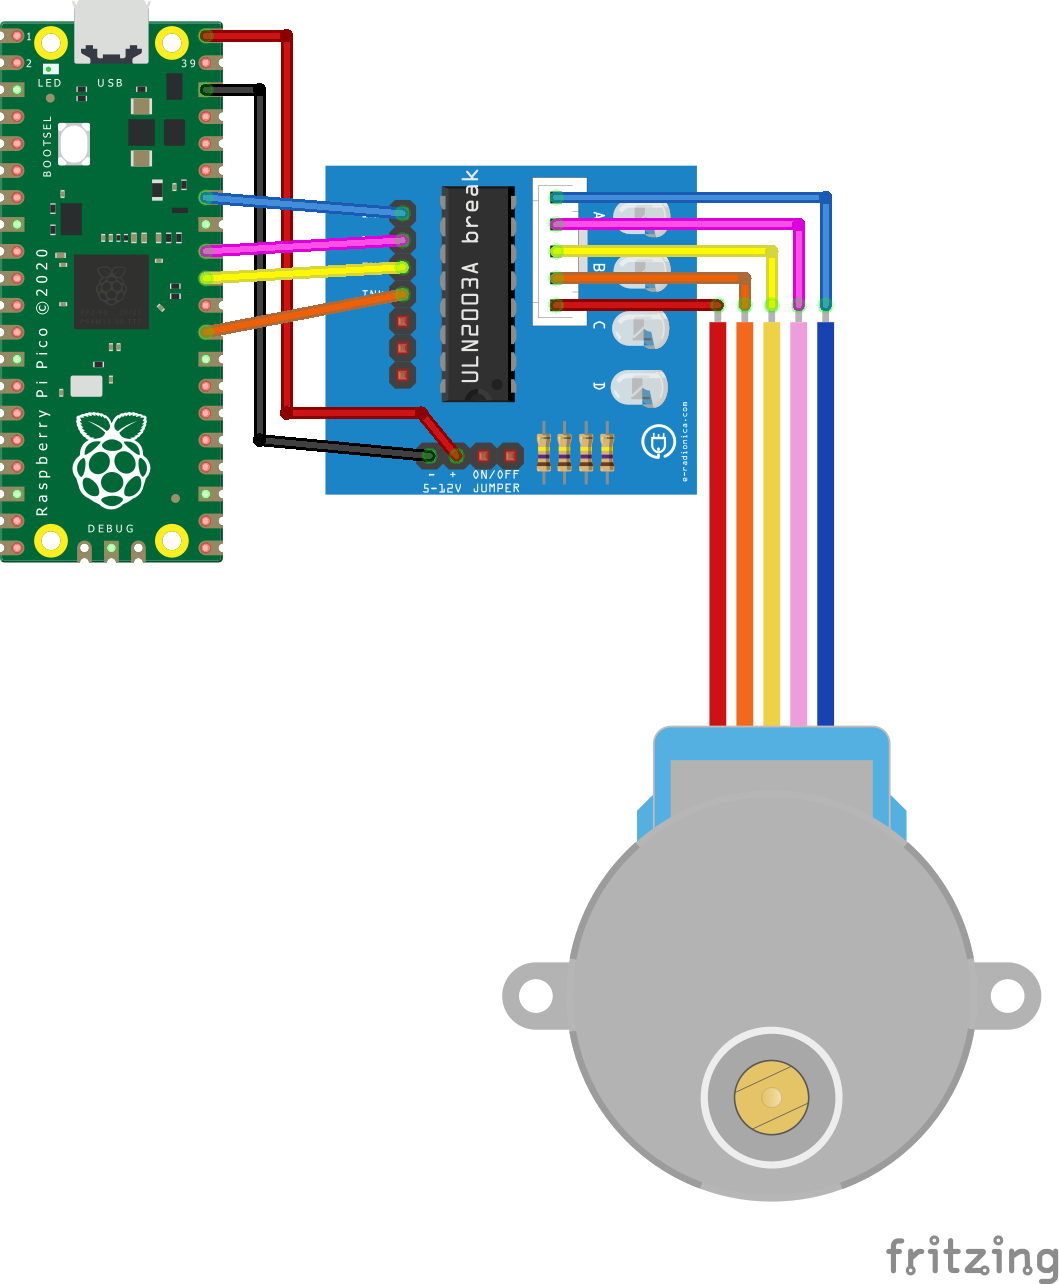
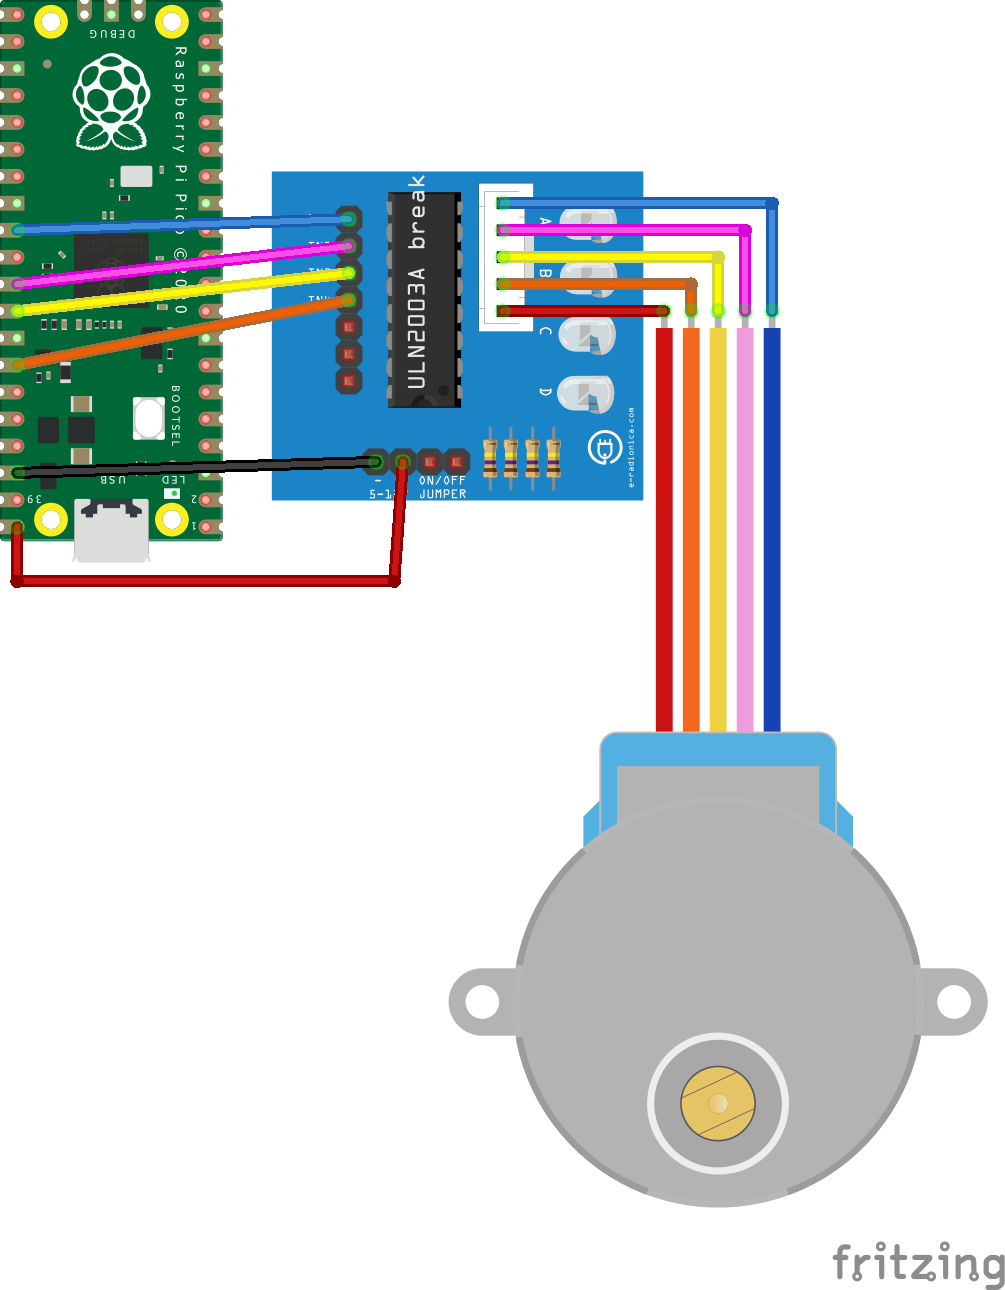
More pico updates
Docs and code for wiring updates.  Better docs on why a pico and what it does.

diff --git a/src/microPython/main.py b/src/microPython/main.py
@@ -46,8 +46,6 @@ def diff_ms(now, then):
     return time.ticks_diff(now, then) / 1000.0
 
 def usleep(us,accuracy=0.99):
-    global output
-    
     start = time.ticks_us()
     diff = 0
     now = start
@@ -132,7 +130,7 @@ def calibrate_delay(expected_duration_ms,step_delay_ms,step_count,start_tick,end
 
     return calibrated_delay_ms
 
-def forward(step_delay_ms,start_tick):
+def forward(calibration_target,step_delay_ms,start_tick):
     global step
 
     # the value we get for step delay is our ideal / target value
@@ -175,6 +173,11 @@ def forward(step_delay_ms,start_tick):
             calibration_step = step % SequenceCount
             calibration_start_tick = now_tick
 
+            # turn off Pico LED once we're within calibration target
+            calibration_p=abs(1.0 - (step_delay_ms / calibrated_delay_ms))
+            if calibration_p < calibration_target:
+                pin_led.off()
+
             step_delay_ms = calibrated_delay_ms
             if debug:
                 # useful overall stats for verifying calibration is doing what it should: keep the TOTAL drift (delta) down.
@@ -202,12 +205,13 @@ def forward(step_delay_ms,start_tick):
 
 if __name__ == '__main__':
     # TODO load the initial step delay from configuration
+    calibration_target=0.001
     step_delay_ms=4.633737
     start_tick=tick()
     try:
         # fire up power and pico's LED (just so we know it should be doing something)
         startup()
-        forward(step_delay_ms,start_tick)
+        forward(calibration_target,step_delay_ms,start_tick)
     except KeyboardInterrupt:
         pass
     finally:

diff --git a/docs/software.md b/docs/software.md
@@ -1,4 +1,4 @@
-# Code
+# Hardware & Software
 
 I staretd out developing this for a Raspberry Pi 4b.  The code is still there (see [stepper.py](../src/python/stepper.py)) but I have moved on to the Raspberry Pi Pico which is a little different.  This document assumes:
 
@@ -6,33 +6,6 @@ I staretd out developing this for a Raspberry Pi 4b.  The code is still there (s
 - You are wiring it the same way documented here
 - You can change the code if you use another device or wire it differently
 
-# Raspberry Pi Pico
-
-- File: [main.py](../src/microPython/main.py)
-- Config: [stepper.yaml](../src/microPython/stepper.yaml)
-
-The code doesn't hard wire pins but you do have to configure it.  See the [Calibration](#calibration) section on why you don't need to tune the stepper delay.
-
-So just plug in your configuration in [stepper.yaml](../src/microPython/stepper.yaml) and ship the [microPython](../src/microPython/) directory to your Raspberry Pi Pico.
-
-How?  I will leave that to you but provide the tools I used.  I decided to go the VSCode route which is GREAT!  I have one IDE to manage the code, run it remotely on the Pico, and finally to upload it to the Pico.  The sites I found helpful:
-
-- [Raspberry Pi Pico: Getting Started](https://www.raspberrypi.org/documentation/pico/getting-started/)
-- [How To Solder Pins to Your Raspberry Pi Pico](https://www.tomshardware.com/how-to/solder-pins-raspberry-pi-pico)
-- [Developing for the Raspberry Pi Pico in VS Code — Getting Started](https://medium.com/all-geek-to-me/developing-for-the-raspberry-pi-pico-in-vs-code-getting-started-6dbb3da5ba97)
-- [MicroPython libraries](https://docs.micropython.org/en/latest/library/index.html)
-
-Once you get everything uploaded to the Pico it pretty much instantly starts when plugged into USB power.  The Raspberry Pi 4b I used originally took a while.  And it's cheaper, smaller, and MUCH cooler when running.
-
-## Wiring
-
-I chose this layout before physically using it.  It works but there is wire crossover which irks me.  The pinout is available on  [Raspberry Pi Pico: Getting Started](https://www.raspberrypi.org/documentation/pico/getting-started/):
-
-![Raspberry Pi Pico Pinout](https://www.raspberrypi.org/documentation/pico/getting-started/static/15243f1ffd3b8ee646a1708bf4c0e866/Pico-R3-Pinout.svg)
-
-And the layout I have gone with is:
-
-![Raspberry Pi Pico Wiring](../images/wiring-piPico.png)
 
 ## Calibration
 
@@ -41,6 +14,12 @@ You do not have to do calibartion!  This is done automatically.  This section ju
 This script is simple but not trivial.. it does a dynamic calibration of the delay between steps.  It measure actual time vs expected time and adjusts the delay between steps.  It's done the whole time the program runs.  The key is to do a pretty short sampling.  If you do a long sample it ends up oscillating, swingging wider over time from ideal.  The new step delay is also adjusted to be only 50% of the difference between what would have been ideal and what is currently set.  This simply means a slower change in the delay, again to tamp down on ocillations.  The way it is setup right now works very well to dial in to a reasonable margin of error and keep it there.
 
 Note the error is higher on startup because it is based on the ideal data sheet numbers.  In my testing, _within 10 seconds_ the error rate stars hovering around `0.01%` with a few bips higher but overall very good.
+
+## Pico LED
+
+The Pico on-board LED will be on until calibration of step delay reaches the calibration target.  This way you know you're good to start with pictures.  Also, the LED lets you know it actually is on, in case the drive controller is misbehaving or wires have come loose.
+
+Calibration target will eventually be configuration driven.  Right now it is 0.1%.
 
 ## Custom Sleep
 

diff --git a/docs/hardware.md b/docs/hardware.md
@@ -1,0 +1,42 @@
+# Hardware
+I staretd out developing this for a Raspberry Pi 4b.  Since I have to the Raspberry Pi Pico for a couple of reasons:
+
+* it's cheaper
+* it's easier to smaller
+* it starts almost instantly
+* it doesn't get as hot
+
+You can still find the older Raspberry Pi 4b [wiring](../imsages/../images/wiring-4b.png) and [software](../src/python/stepper.py), but it is not going to be kept up to date.  At some point I'll likely drop them since the MicroPython code is different enough.
+
+## Raspberry Pi Pico
+
+- File: [main.py](../src/microPython/main.py)
+- Config: [stepper.yaml](../src/microPython/stepper.yaml)
+
+The code doesn't hard wire pins but you do have to configure it.  See the [Calibration](#calibration) section on why you don't need to tune the stepper delay.
+
+So just plug in your configuration in [stepper.yaml](../src/microPython/stepper.yaml) and ship the [microPython](../src/microPython/) directory to your Raspberry Pi Pico.
+
+How?  I will leave that to you but provide the tools I used.  I decided to go the VSCode route which is GREAT!  I have one IDE to manage the code, run it remotely on the Pico, and finally to upload it to the Pico.  The sites I found helpful:
+
+- [Raspberry Pi Pico: Getting Started](https://www.raspberrypi.org/documentation/pico/getting-started/)
+- [How To Solder Pins to Your Raspberry Pi Pico](https://www.tomshardware.com/how-to/solder-pins-raspberry-pi-pico)
+- [Developing for the Raspberry Pi Pico in VS Code — Getting Started](https://medium.com/all-geek-to-me/developing-for-the-raspberry-pi-pico-in-vs-code-getting-started-6dbb3da5ba97)
+- [MicroPython libraries](https://docs.micropython.org/en/latest/library/index.html)
+
+Once you get everything uploaded to the Pico it pretty much instantly starts when plugged into USB power.  The Raspberry Pi 4b I used originally took a while.  And it's cheaper, smaller, and MUCH cooler when running.
+
+## Wiring
+
+Pinout picked to minimize wire crossings.  It will change if I start adding some buttons.  Also I used [F-wire-blank.stl](../src/stl/F-wire-blank.stl) to make some blanks for pins not used so I could glue the wires together.  It was super annoying getting to a site to shoot and having to re-wire things!  Thankfully having this repo with pictures made it trivial, but still didn't like it.
+
+The pinout is available on  [Raspberry Pi Pico: Getting Started](https://www.raspberrypi.org/documentation/pico/getting-started/):
+
+![Raspberry Pi Pico Pinout](https://www.raspberrypi.org/documentation/pico/getting-started/static/15243f1ffd3b8ee646a1708bf4c0e866/Pico-R3-Pinout.svg)
+
+And the layout I have gone with is:
+
+![Raspberry Pi Pico Wiring](../images/wiring-piPico.png)
+
+---
+Back to the [Index](00-index.md)!

diff --git a/docs/00-index.md b/docs/00-index.md
@@ -4,6 +4,6 @@ So it's not all in one massive file:
 * [Pricing](pricing.md)
 * [Building the Tracker](building.md)
 * [Assembly](assembly.md)
-* [Wiring](wiring.md)
-* [Code](code.md)
+* [Hardware](hardware.md)
+* [Software](software.md)
 * [Using the Tracker](using.md)
